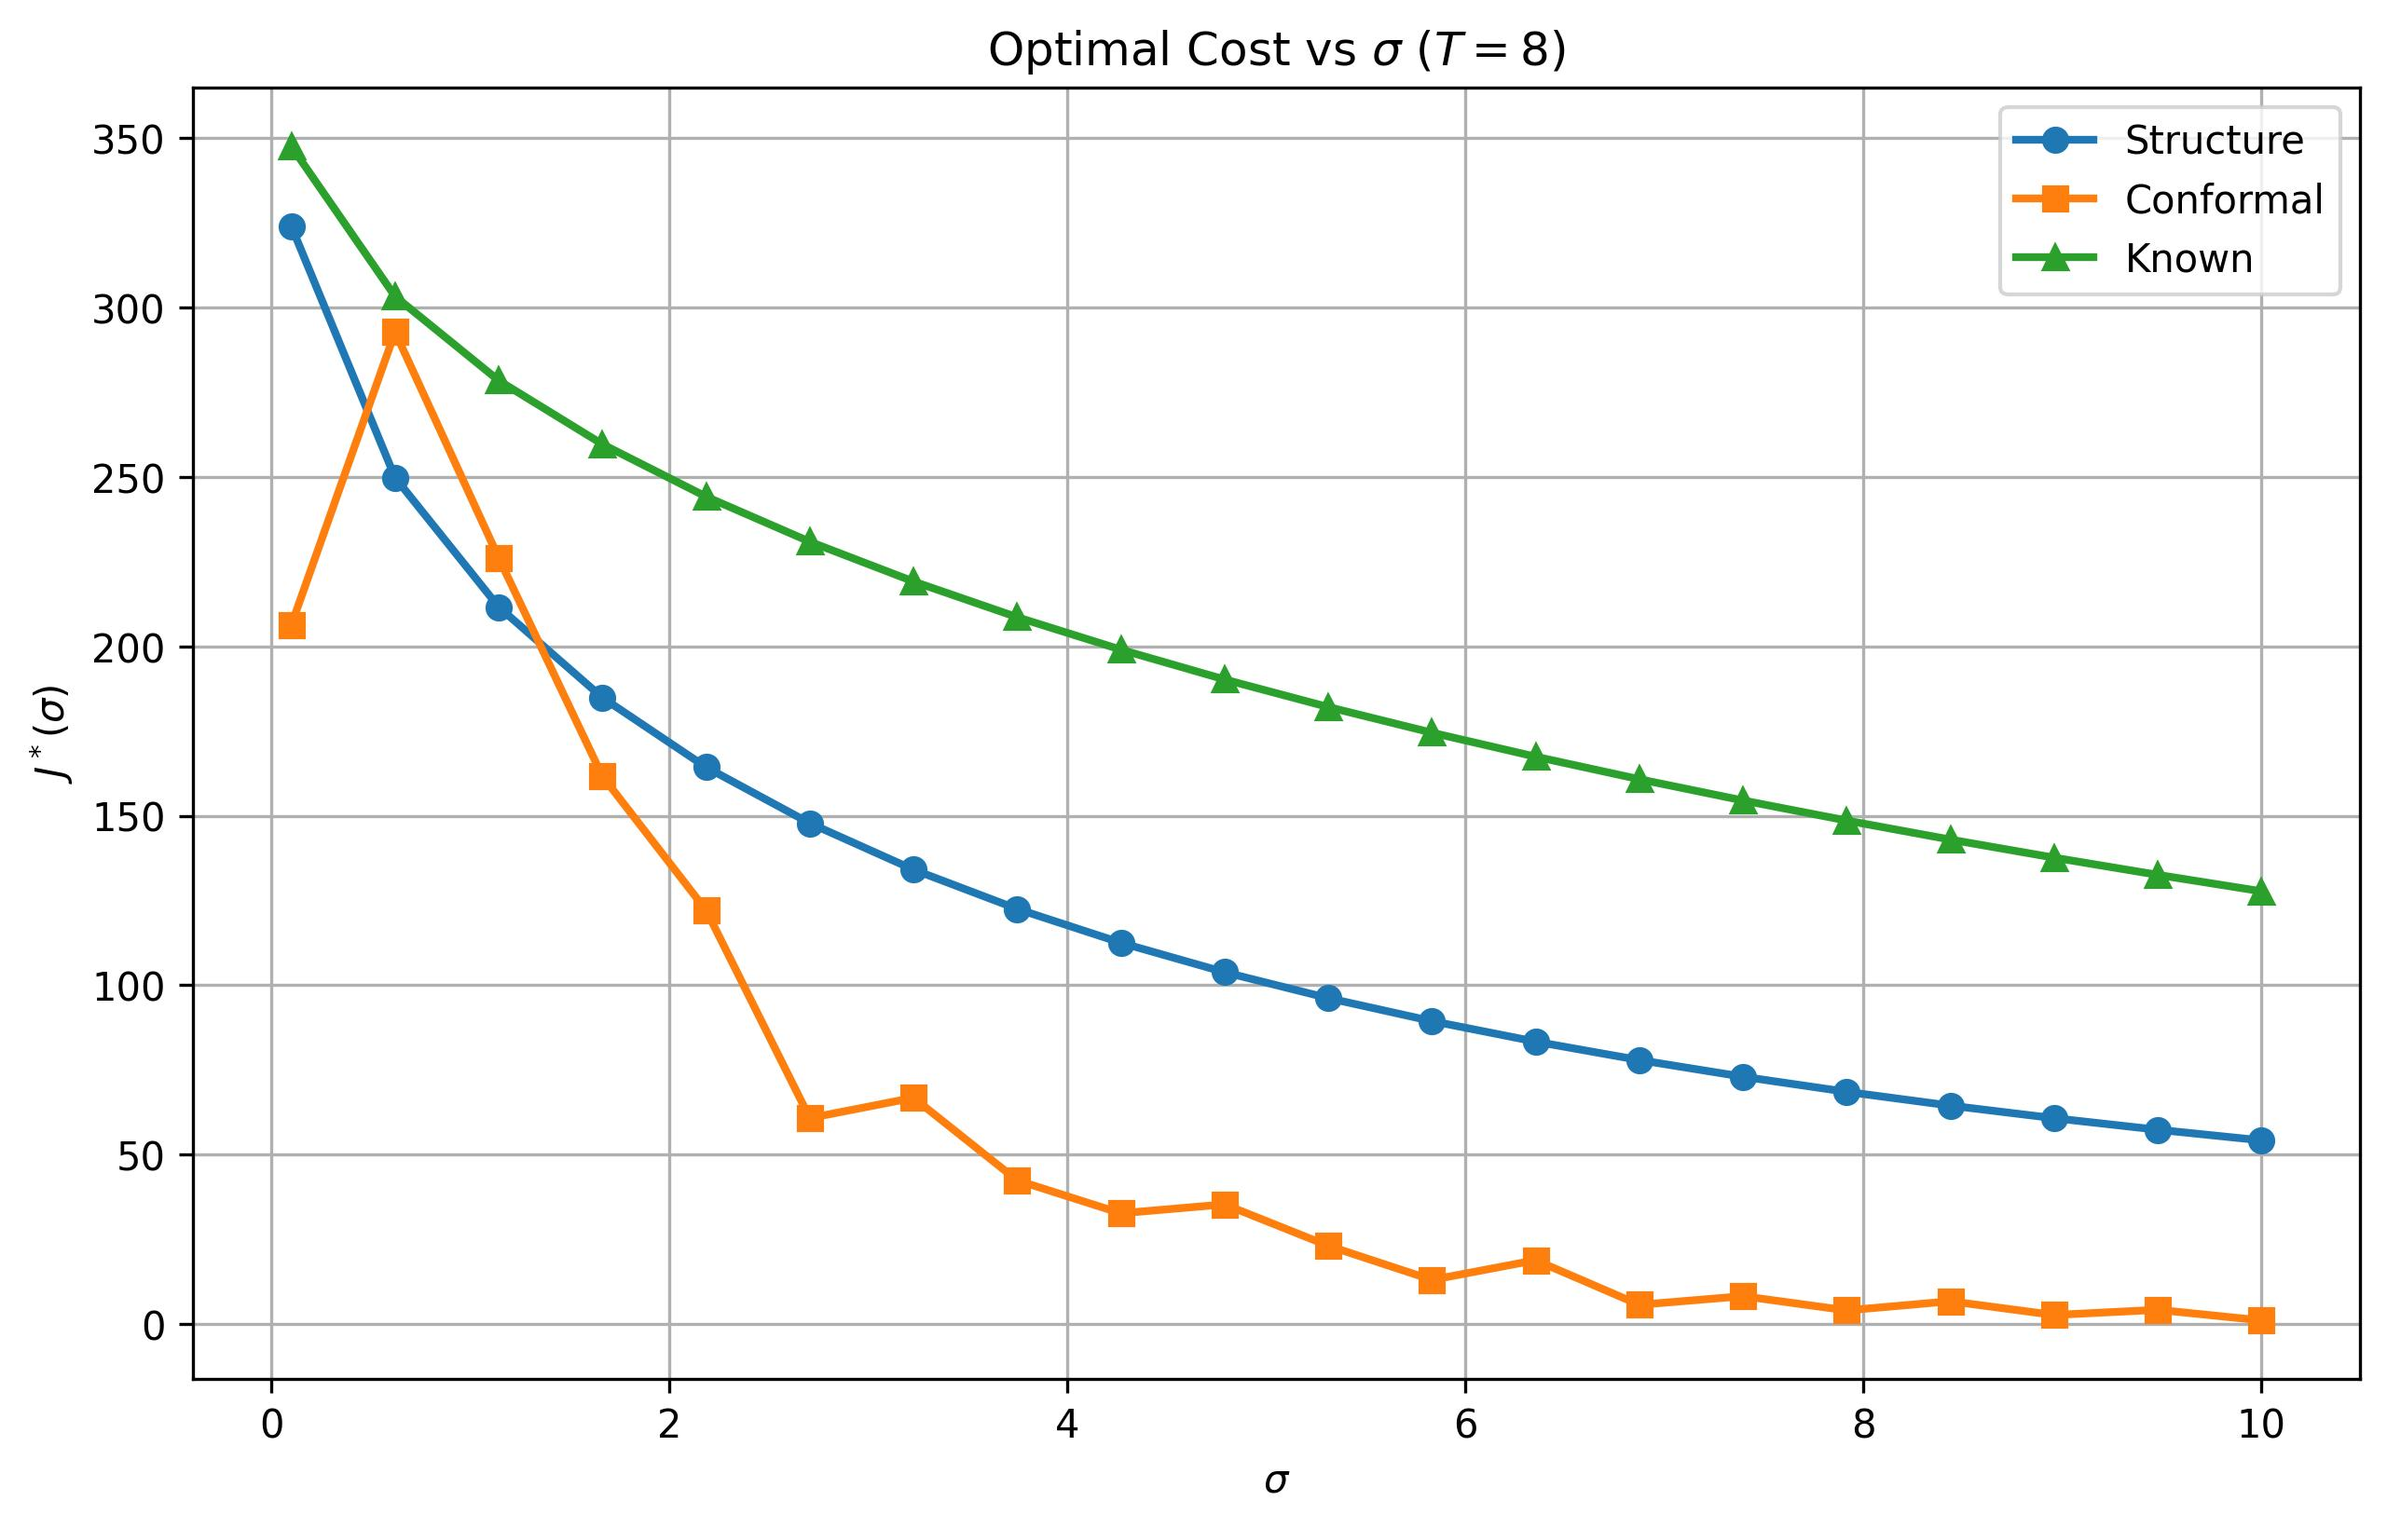
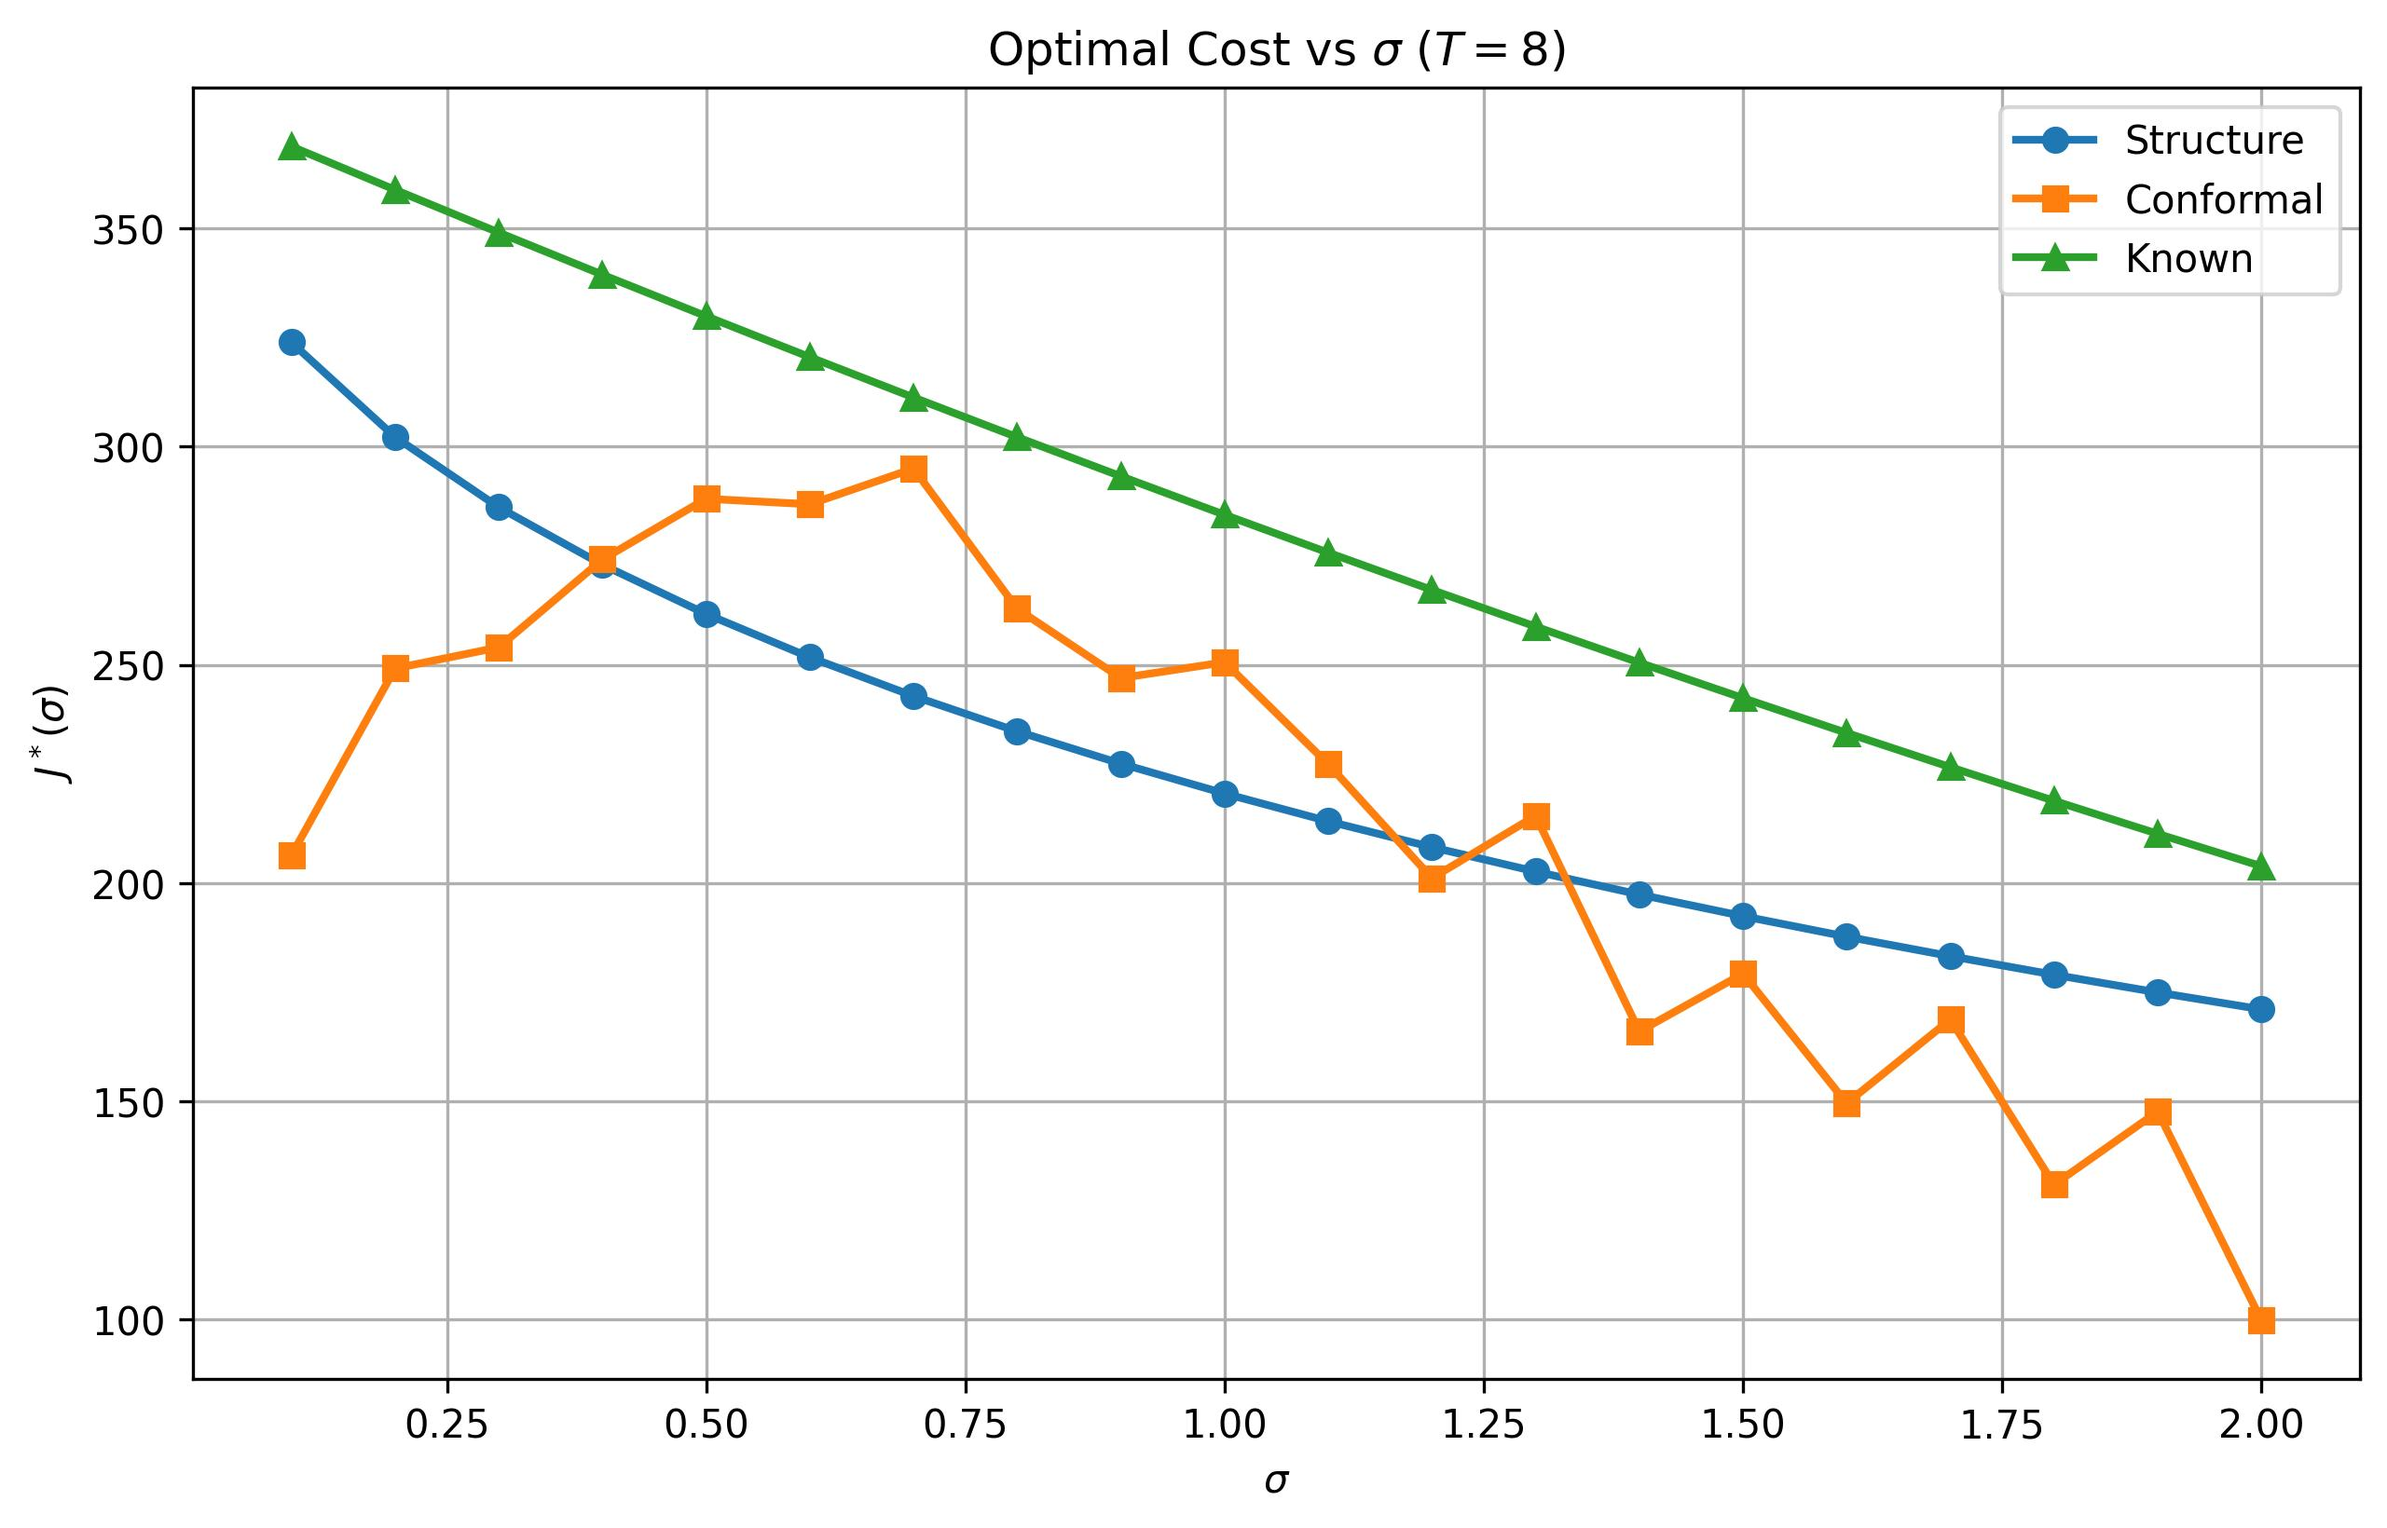
update

diff --git a/data/cp.py b/data/cp.py
@@ -699,6 +699,7 @@ all_cost_known = {}
 all_lambda = {}
 all_dev_struct = {}
 all_dev_conf = {}
+all_dev_econf = {}
 all_dev_known = {}
 
 for T in T_list:
@@ -760,6 +761,7 @@ for T in T_list:
 
     dev_struct = []
     dev_conf = []
+    dev_econf = []
     dev_known = []
 
     for gamma in gamma_vals:
@@ -811,6 +813,7 @@ for T in T_list:
 
         idev_struct = []
         idev_conf = []
+        idev_econf = []
         idev_known = []
 
         for _ in range(5000):
@@ -842,18 +845,14 @@ for T in T_list:
             e3 = xT3 - xf
             
 
-            idev_struct.append(
-                e1.T @ np.linalg.inv(sigma_z) @ e1
-            )
-            idev_conf.append(
-                e2.T @ np.linalg.inv(sigmaz) @ e2
-            )
-            idev_known.append(
-                e3.T @ np.linalg.inv(sigmaz) @ e3
-            )
+            idev_struct.append(e1.T @ np.linalg.inv(sigma_z) @ e1)
+            idev_conf.append(e2.T @ np.linalg.inv(sigmaz) @ e2)
+            idev_econf.append(e2.T @ e2)
+            idev_known.append(e3.T @ np.linalg.inv(sigmaz) @ e3)
 
         dev_struct.append(np.mean(idev_struct))
         dev_conf.append(np.mean(idev_conf))
+        dev_econf.append(np.mean(idev_econf))
         dev_known.append(np.mean(idev_known))
 
     all_gamma[T] = gamma_vals
@@ -863,6 +862,7 @@ for T in T_list:
 
     all_dev_struct[T] = dev_struct
     all_dev_conf[T] = dev_conf
+    all_dev_econf[T] = dev_econf
     all_dev_known[T] = dev_known
 
 plt.figure(figsize=(10,6))
@@ -902,17 +902,21 @@ plt.figure(figsize=(10,6))
 for T in T_list:
     plt.plot(all_gamma[T], all_dev_struct[T], marker='o', label=f"Structure, T={T}")
     plt.plot(all_gamma[T], all_dev_conf[T], marker='s', label=f"Conformal, T={T}")
+    plt.plot(all_gamma[T],all_dev_econf[T],marker='^',label=fr"Conformal $E[e^\top e]$, $T={T}$")
     plt.plot(all_gamma[T], all_dev_known[T], '--', marker='^', label=f"Known, T={T}")
 
 
 plt.xlabel(r'$\gamma$')
 plt.ylabel(r'$\mathbb{E}[e^\top \Sigma_e^{-1} e]$')
 plt.title(r'Empirical deviation vs $\gamma$')
-plt.legend()
+plt.legend(
+    loc='center left',          # choose position
+    bbox_to_anchor=(1.02, 0.5), # move legend outside
+    fontsize=10
+)
 plt.grid(True)
+plt.tight_layout()
 plt.savefig('deviation_vs_gamma_allT.jpeg')
-plt.show()
-
 
 T = 8
 
@@ -940,7 +944,7 @@ N_cal = 60
 U = np.random.randn(m*T, N)
 U_cal = np.random.randn(m*T, N_cal)
 
-sigma_vals = np.linspace(0.1, 10, 20)
+sigma_vals = np.linspace(0.1, 2, 20)
 
 # ---------- initialize ONCE ----------
 cost_struct = []
@@ -949,11 +953,11 @@ cost_known = []
 
 dev_struct = []
 dev_conf = []
+dev_econf = []
 dev_known = []
 
 lambda_star = find_lambda_star(n, epsilon, 1-delta)
 
-# Before: for sigma in sigma_vals
 w_train = np.random.multivariate_normal(
     np.zeros(n*T),
     np.eye(n*T),
@@ -962,7 +966,7 @@ w_train = np.random.multivariate_normal(
 # -------------------------------------
 for sigma in sigma_vals:
 
-    sigma_w = np.eye(n*T) * sigma
+    sigma_w = np.eye(n*T) * sigma**2
     sigma_z = N_T @ sigma_w @ N_T.T
 
     X_bar = np.zeros((n, N))
@@ -1042,6 +1046,7 @@ for sigma in sigma_vals:
 
     idev_struct = []
     idev_conf = []
+    idev_econf = []
     idev_known = []
 
     for _ in range(5000):
@@ -1061,10 +1066,12 @@ for sigma in sigma_vals:
 
         idev_struct.append(e1.T @ np.linalg.inv(sigma_z) @ e1)
         idev_conf.append(e2.T @ np.linalg.inv(sigma_z) @ e2)
+        idev_econf.append(e2.T @ e2)
         idev_known.append(e3.T @ np.linalg.inv(sigma_z) @ e3)
 
     dev_struct.append(np.mean(idev_struct))
     dev_conf.append(np.mean(idev_conf))
+    dev_econf.append(np.mean(idev_econf))
     dev_known.append(np.mean(idev_known))
 
 
@@ -1099,6 +1106,8 @@ plt.plot(sigma_vals, dev_struct,
 plt.plot(sigma_vals, dev_conf,
          marker='s', linewidth=2,
          label='Conformal')
+
+plt.plot(sigma_vals, dev_econf, '^--', linewidth = 2, label = r'Conformal $E[e^\top e]$')
 
 plt.plot(sigma_vals, dev_known,
          marker='^', linewidth=2,
